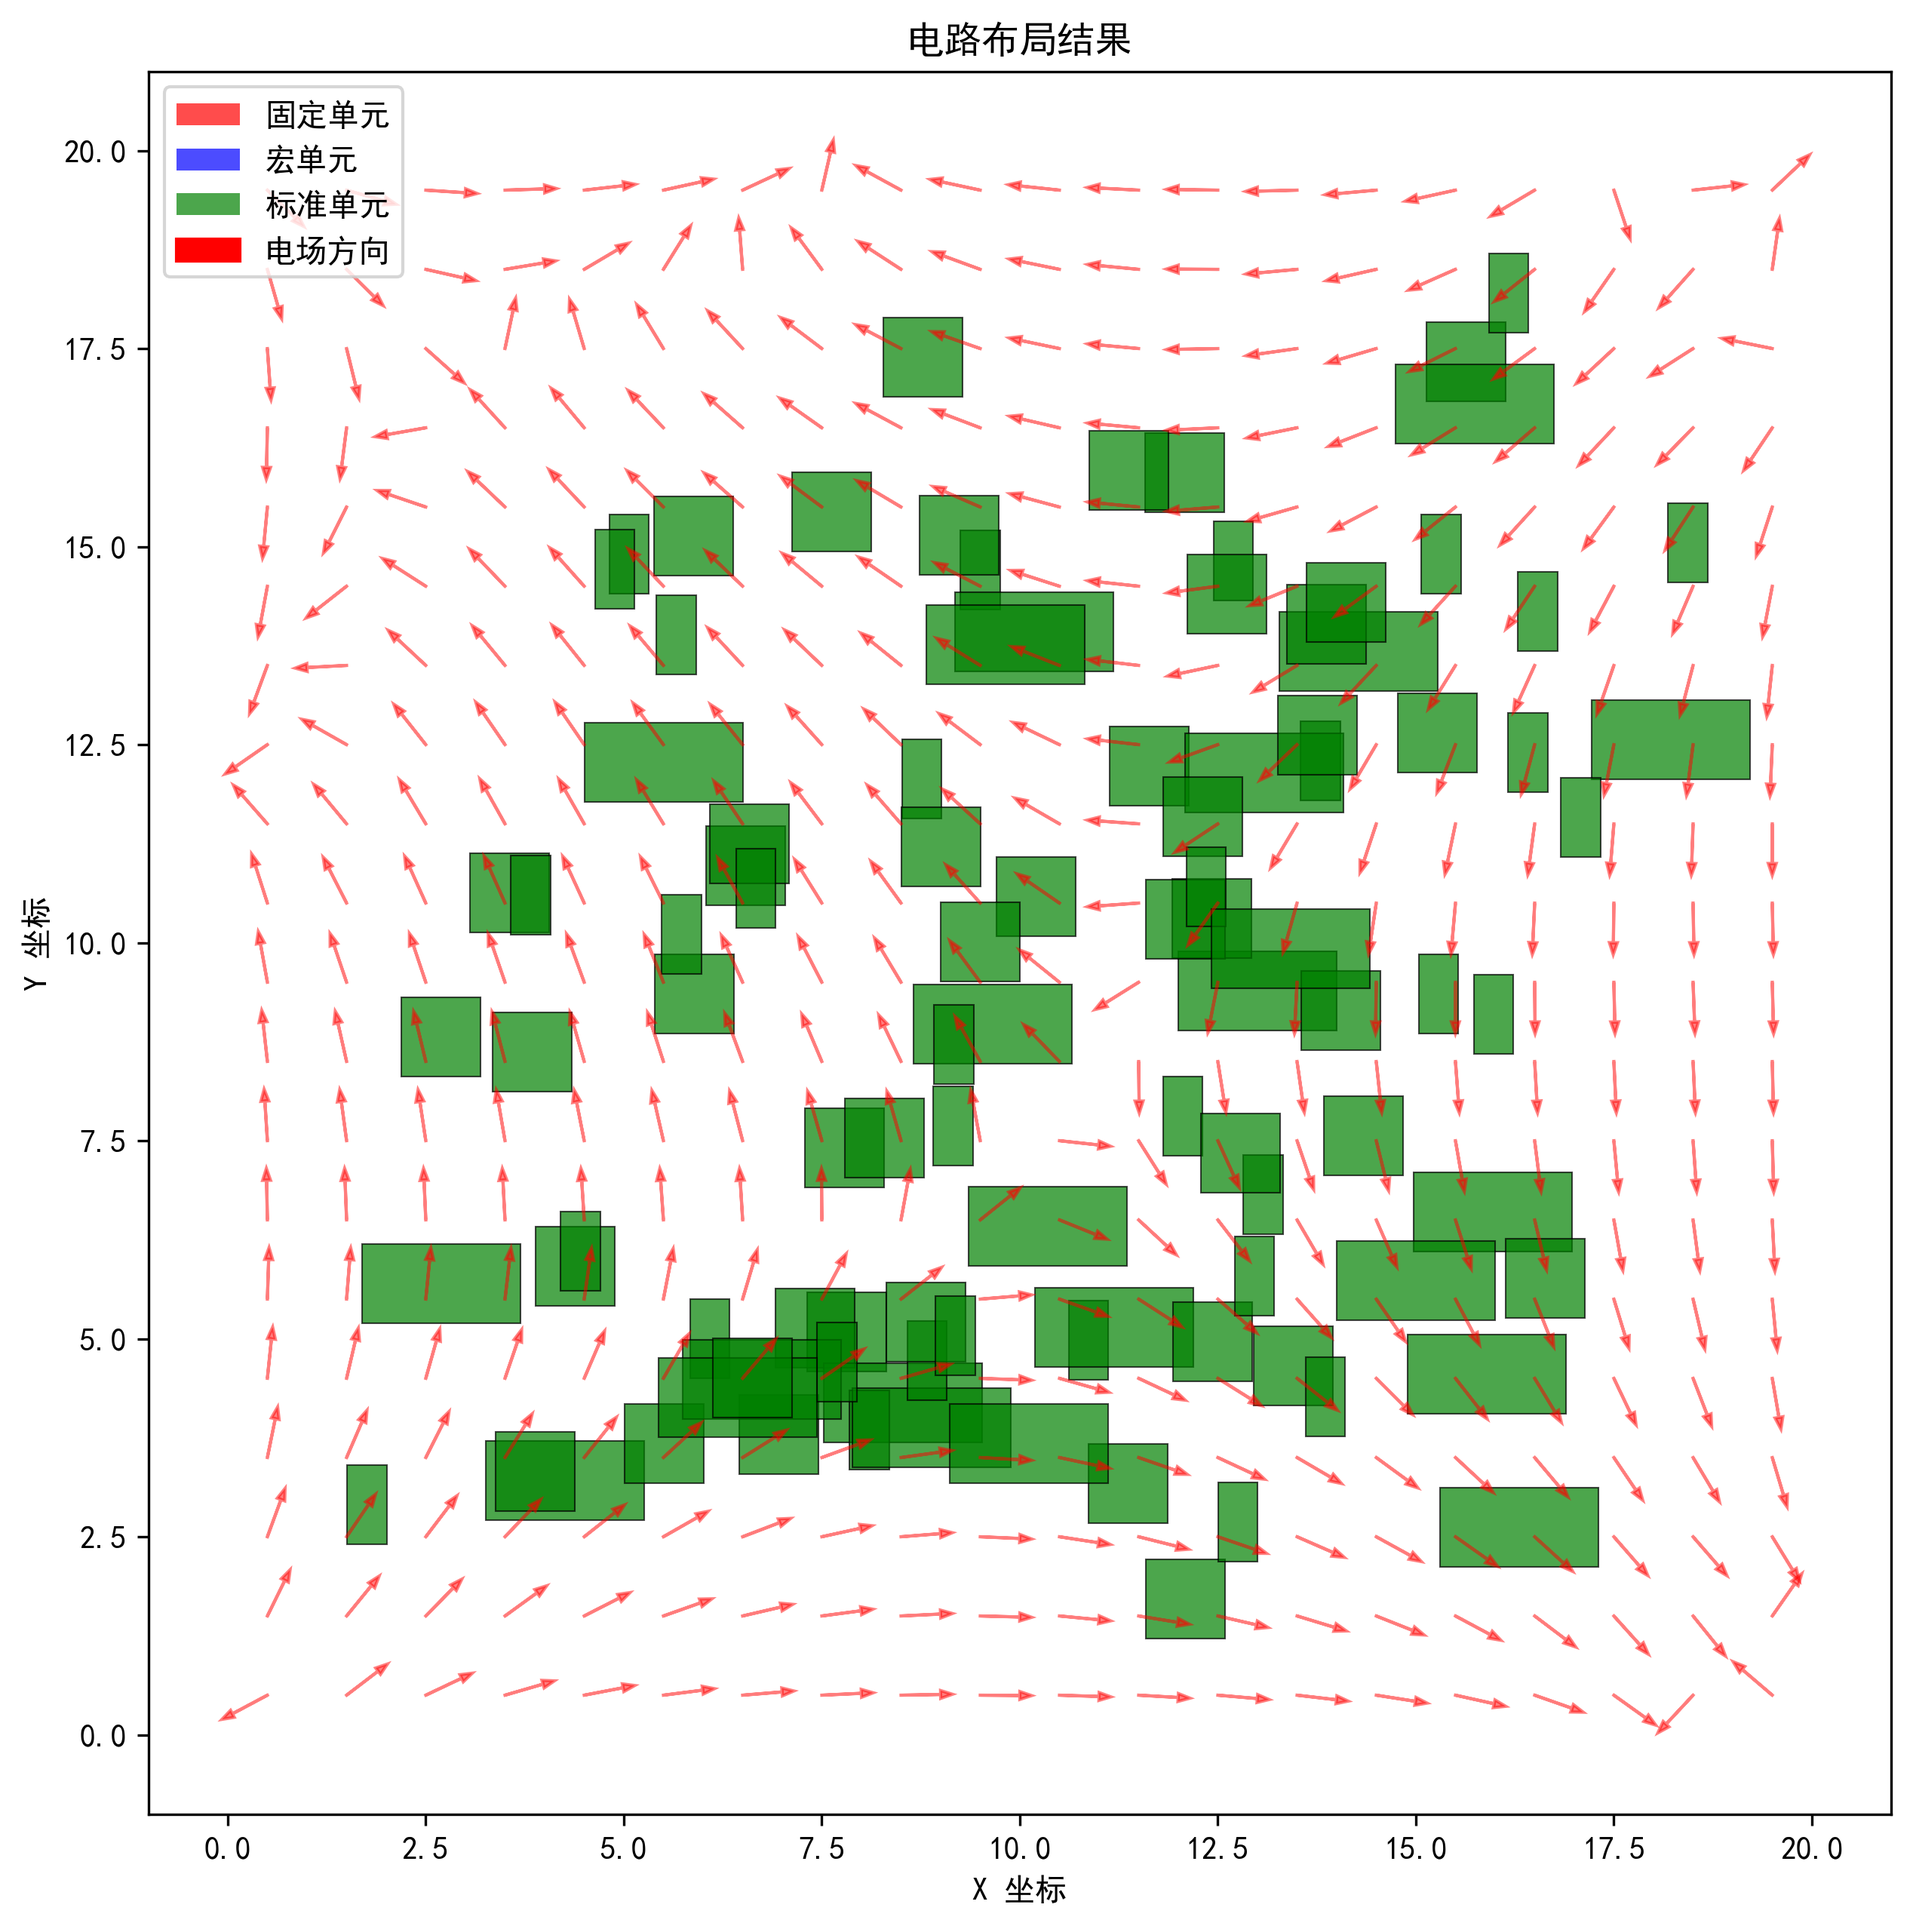
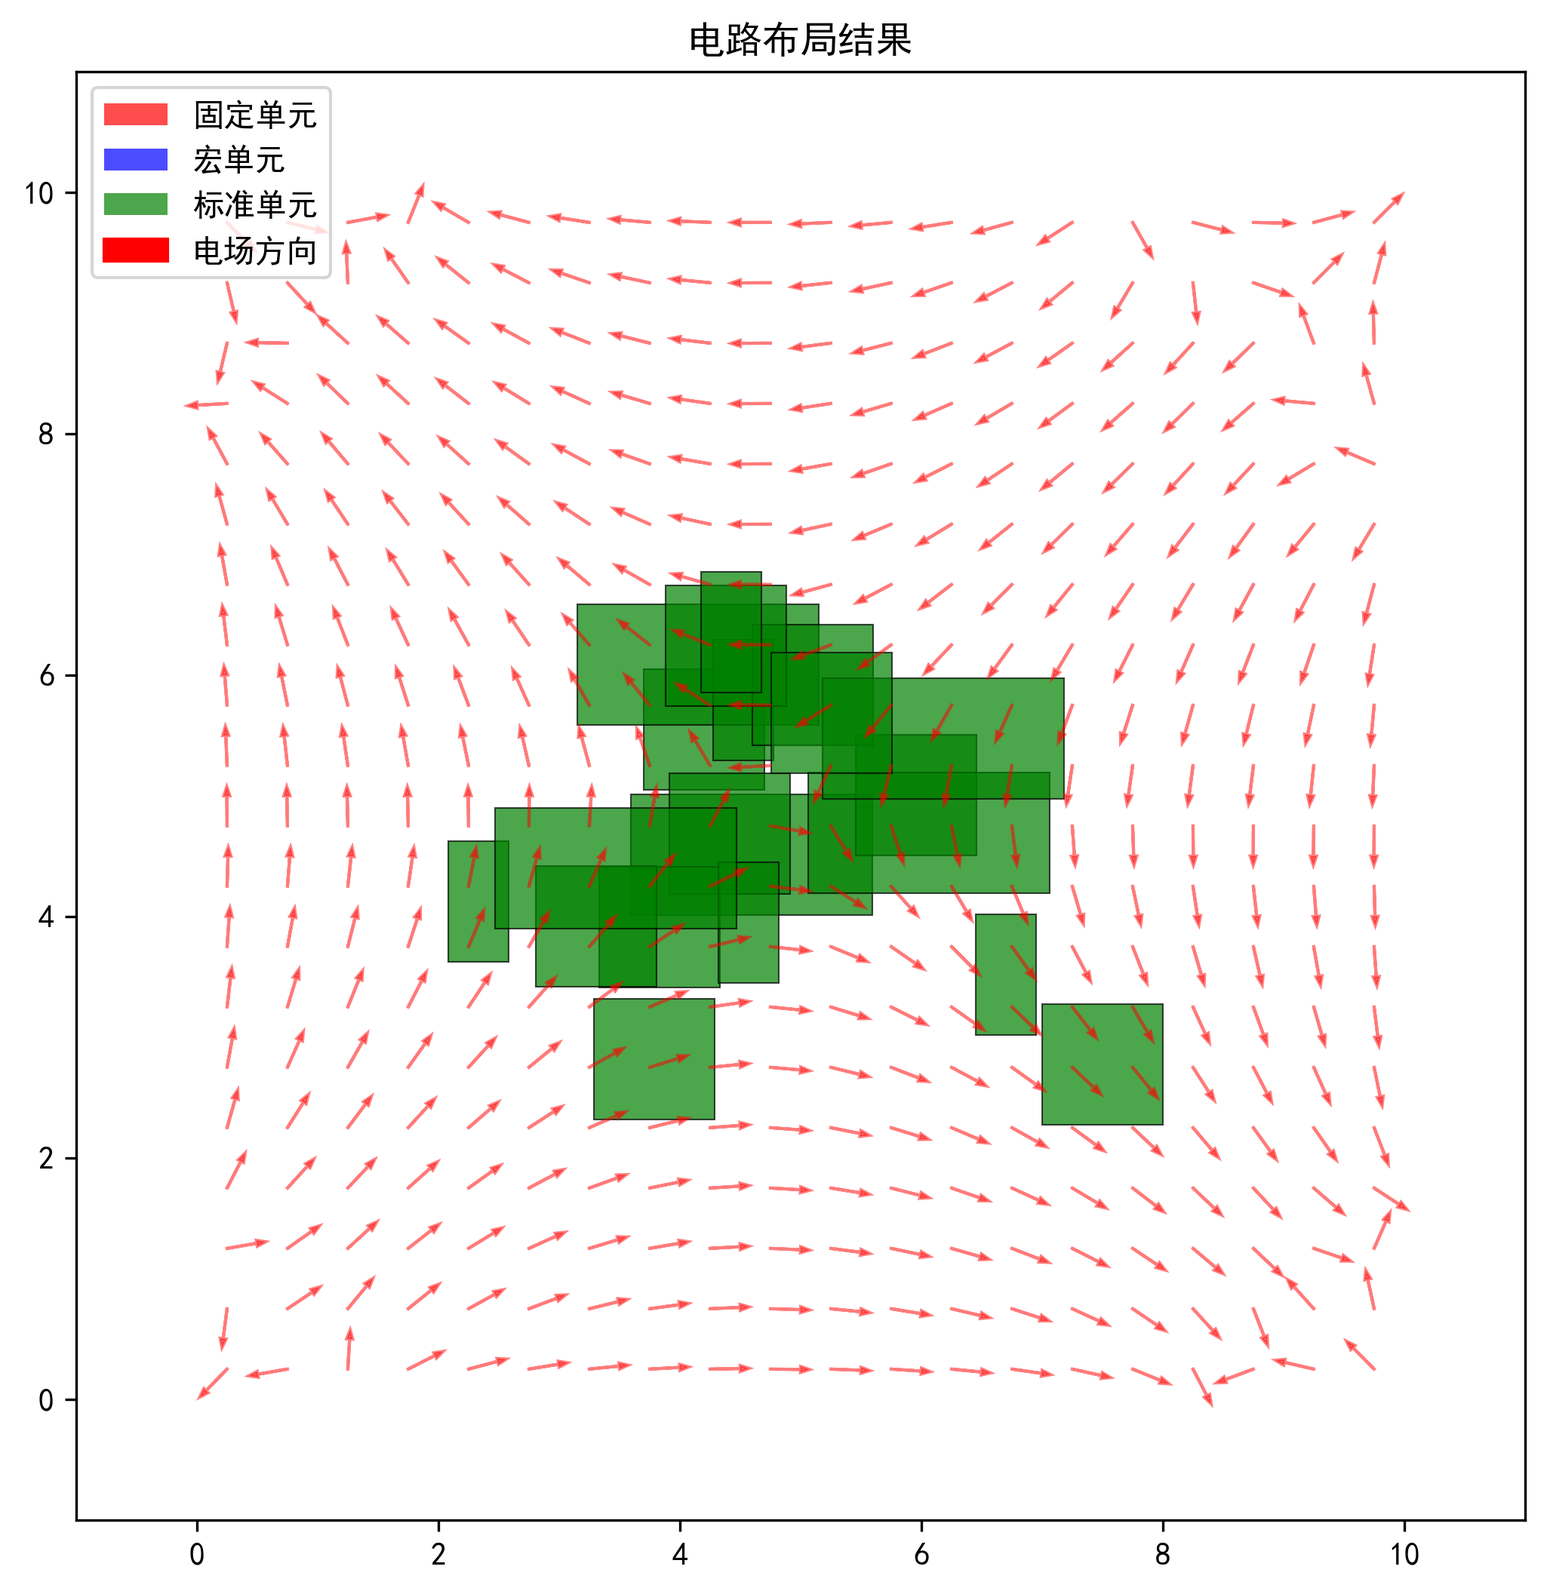
准备修改 布局的逻辑

diff --git a/src/visualizer.py b/src/visualizer.py
@@ -27,25 +27,41 @@ class PlacementVisualizer:
         self.cell_texts = {}
         self.colorbar = None  # 添加 colorbar 引用
         
-        # 创建图形
-        self.fig, self.ax = plt.subplots(figsize=(12, 10))
+        # 创建图形，调整大小和布局
+        self.fig = plt.figure(figsize=(10, 8))
+        self.ax = self.fig.add_axes([0.05, 0.05, 0.8, 0.9]) #colorbar预留空间
         plt.ion()  # 打开交互模式
+
         logger.info("可视化器初始化完成")
 
     def clear_plot(self):
-        """清除当前图形"""        # 完全重置图形
-        plt.close(self.fig)
-        self.fig, self.ax = plt.subplots(figsize=(12, 10))
-        plt.ion()  # 重新打开交互模式
+        """清除当前图形内容"""
+        self.ax.clear()
         
-        # 重置所有属性
+        # 清除 colorbar
+        if hasattr(self, 'colorbar') and self.colorbar is not None:
+            try:
+                self.colorbar.ax.remove()
+                self.colorbar = None
+            except Exception as e:
+                logger.warning(f"清除 colorbar 时出错: {e}")
+        
+        # 清除存储的图形对象
         self.cell_patches.clear()
         self.cell_texts.clear()
-        self.colorbar = None
+        
+        # 重置坐标轴设置和位置
+        self.ax.set_position([0.05, 0.05, 0.8, 0.9])  # 重新设置主图位置
+        # self.ax.set_xlabel('X 坐标')
+        # self.ax.set_ylabel('Y 坐标')
+        
+        # 重置图形布局
+        self.fig.canvas.draw()
 
-    def visualize_potential(self, density_map: DensityMap, output_file: str = None):
+    def visualize_potential(self, density_map: DensityMap = None, output_file = None,show =True):
         """可视化电势图"""
-        self.clear_plot()        # 清除之前的内容
+        # 清除之前的内容
+        self.clear_plot()
         
         # 获取电势数据
         potential = density_map.potential
@@ -56,30 +72,45 @@ class PlacementVisualizer:
         X, Y = np.meshgrid(x, y)
         
         # 绘制电势图
-        contour = self.ax.contourf(X, Y, potential.T, levels=20, cmap='viridis')
-        self.colorbar = plt.colorbar(contour, ax=self.ax, label='电势', pad=0.1)
+        # # contour = self.ax.contourf(X, Y, potential.T, levels=20, cmap='viridis')  
+        # self.colorbar = plt.colorbar(contour, ax=self.ax, label='电势', pad=0.05)
+
+        img = self.ax.imshow(
+        potential.T,                      # 注意转置，使图的方向正确
+        extent=[
+            density_map.origin_x,
+            density_map.origin_x + density_map.width,
+            density_map.origin_y,
+            density_map.origin_y + density_map.height
+        ],
+        origin='lower',                   # 原点在左下角
+        cmap='viridis',                   # 使用相同颜色映射
+        aspect='equal'                    # 坐标比例一致
+    )
+
+    # 添加颜色条
+        self.colorbar = plt.colorbar(img, ax=self.ax, label='电势', pad=0.05)        
+
         
         # 设置坐标轴
         self.ax.set_xlim(density_map.origin_x, density_map.origin_x + density_map.width)
         self.ax.set_ylim(density_map.origin_y, density_map.origin_y + density_map.height)
         self.ax.set_aspect('equal')
-        self.ax.set_xlabel('X 坐标')
-        self.ax.set_ylabel('Y 坐标')
-        self.ax.set_title('电势分布图')
-        
-        # 调整布局
-        self.fig.tight_layout()
+        # self.ax.set_xlabel('X 坐标')
+        # self.ax.set_ylabel('Y 坐标')
+        self.ax.set_title('电势分布图', pad=20)
         
         # 保存或显示图形
         if output_file:
             plt.savefig(output_file, dpi=300, bbox_inches='tight')
-            logger.info(f"电势图保存到: {output_file}")
+            # logger.info(f"电势图保存到: {output_file}")
         
         # 更新显示
-        self.fig.canvas.draw()
-        self.fig.canvas.flush_events()
+        if show:
+            self.fig.canvas.draw()
+            self.fig.canvas.flush_events()
 
-    def visualize_density(self, density_map: DensityMap, output_file: str = None):
+    def visualize_density(self, density_map: DensityMap=None, output_file = None,show=True):
         """可视化密度图"""
         self.clear_plot()
         density = density_map.density
@@ -90,35 +121,59 @@ class PlacementVisualizer:
         X, Y = np.meshgrid(x, y)
         
         # 绘制密度图
-        contour = self.ax.contourf(X, Y, density.T, levels=20, cmap='hot')
-        self.colorbar = plt.colorbar(contour, ax=self.ax, label='密度', pad=0.1)
+        # contour = self.ax.contourf(X, Y, density.T, levels=20, cmap='hot')
+        # self.colorbar = plt.colorbar(contour, ax=self.ax, label='密度', pad=0.05)
+    # 用 imshow 绘制热力图
+        img = self.ax.imshow(
+        density.T,                      # 转置矩阵，使方向正确
+        extent=[
+            density_map.origin_x,
+            density_map.origin_x + density_map.width,
+            density_map.origin_y,
+            density_map.origin_y + density_map.height
+        ],
+        origin='lower',                 # 原点设在左下角（更直观）
+        cmap='hot',                     # 热力图配色方案
+        aspect='equal'                  # 保持坐标比例一致
+    )
+    # 添加颜色条
+        self.colorbar = plt.colorbar(img, ax=self.ax, label='密度', pad=0.05)
         
         # 设置坐标轴
         self.ax.set_xlim(density_map.origin_x, density_map.origin_x + density_map.width)
         self.ax.set_ylim(density_map.origin_y, density_map.origin_y + density_map.height)
         self.ax.set_aspect('equal')
-        self.ax.set_xlabel('X 坐标')
-        self.ax.set_ylabel('Y 坐标')
-        self.ax.set_title('单元密度分布图')
-        
-        # 调整布局
-        self.fig.tight_layout()
+        # self.ax.set_xlabel('X 坐标')
+        # self.ax.set_ylabel('Y 坐标')
+        self.ax.set_title('单元密度分布图', pad=20)
         
         # 保存或显示图形
         if output_file:
             plt.savefig(output_file, dpi=300, bbox_inches='tight')
-            logger.info(f"密度图保存到: {output_file}")
+            # logger.info(f"密度图保存到: {output_file}")
         
         # 更新显示
-        self.fig.canvas.draw()
-        self.fig.canvas.flush_events()
+        if show:
+            self.fig.canvas.draw()
+            self.fig.canvas.flush_events()
 
-    def visualize_placement(self, density_map: DensityMap = None, show_field: bool = False, output_file: str = None):
+    def visualize_placement(self, density_map: DensityMap = None, show_field = False, show = True ,output_file= None):
         """可视化布局结果"""       
         # 清除之前的内容
         self.ax.clear()
         self.cell_patches.clear()
         self.cell_texts.clear()
+        
+        # 清除 colorbar
+        if hasattr(self, 'colorbar') and self.colorbar is not None:
+            try:
+                self.colorbar.ax.remove()
+                self.colorbar = None
+            except Exception as e:
+                logger.warning(f"清除 colorbar 时出错: {e}")
+        
+        # 重置坐标轴设置和位置
+        self.ax.set_position([0.1, 0.1, 0.85, 0.8])  # 布局图不需要为colorbar预留空间
         
         # 绘制芯片边界
         min_x, min_y, max_x, max_y = self.circuit.die_area
@@ -134,8 +189,8 @@ class PlacementVisualizer:
         self.ax.set_xlim(min_x - 1, max_x + 1)
         self.ax.set_ylim(min_y - 1, max_y + 1)
         self.ax.set_aspect('equal')
-        self.ax.set_xlabel('X 坐标')
-        self.ax.set_ylabel('Y 坐标')
+        # self.ax.set_xlabel('X 坐标')
+        # self.ax.set_ylabel('Y 坐标')
         
         # 根据文件名设置不同的标题
         title = '电路布局结果'
@@ -155,12 +210,13 @@ class PlacementVisualizer:
         # 保存或显示图形
         if output_file:
             plt.savefig(output_file, dpi=300, bbox_inches='tight')
-            logger.info(f"布局图保存到: {output_file}")
+            # logger.info(f"布局图保存到: {output_file}")
         
         # 更新显示
-        self.fig.canvas.draw()
-        self.fig.canvas.flush_events()
-        
+        if show:
+            self.fig.canvas.draw()
+            self.fig.canvas.flush_events()
+            
     def draw_cells(self):
         """绘制所有单元"""
         min_size = 8

diff --git a/src/placer.py b/src/placer.py
@@ -187,11 +187,11 @@ class ElectrostaticPlacer:
             current_density = self.density_map.get_max_density()
             
             # 每10次迭代更新一次可视化
-            if iteration % 10 == 0:
+            if iteration % 1 == 0:
                 self.visualizer.visualize_placement(self.density_map, show_field=True, \
                                                     output_file=fr"images/placement_{iteration}.png")
-                self.visualizer.visualize_density(self.density_map,output_file=fr"images/density_{iteration}.png")
-                self.visualizer.visualize_potential(self.density_map,output_file=fr"images/potential_{iteration}.png")
+                self.visualizer.visualize_density(self.density_map,output_file=fr"images/density_{iteration}.png",show=False)
+                self.visualizer.visualize_potential(self.density_map,output_file=fr"images/potential_{iteration}.png",show=False)
 
                 logger.info(f"迭代 {iteration}: HPWL={current_hpwl:.2f}, "
                            f"最大密度={current_density:.2f}, "

diff --git a/src/configs.py b/src/configs.py
@@ -16,7 +16,7 @@ def parse_arguments():
     parser.add_argument('--alpha', type=float, default=1.0, help='静电力学模型参数')
     parser.add_argument('--beta', type=float, default=0.5, help='线长权重参数')
     parser.add_argument('--gamma', type=float, default=0.5, help='密度权重参数')
-    parser.add_argument('--iterations', type=int, default=100, help='全局布局迭代次数')
+    parser.add_argument('--iterations', type=int, default=10, help='全局布局迭代次数')
     # parser.add_argument('--visualize', action='store_true', help='是否可视化布局结果')
     parser.add_argument('--visualize', type=bool, default=True, help='是否可视化布局结果')
     

diff --git a/delete.py b/delete.py
@@ -1,0 +1,16 @@
+import os
+
+folder_path = 'images'# 设置 images 文件夹路径
+
+# 图片文件扩展名列表
+image_extensions = ['.jpg', '.jpeg', '.png', '.gif', '.bmp', '.webp']
+
+# 遍历文件夹中的所有文件
+for filename in os.listdir(folder_path):
+    file_path = os.path.join(folder_path, filename)
+    # 检查是否为文件且扩展名为图片格式
+    if os.path.isfile(file_path) and os.path.splitext(filename)[1].lower() in image_extensions:
+        os.remove(file_path)
+        print(f"已删除: {file_path}")
+
+print("图片清理完成。")

diff --git a/src/circuit.py b/src/circuit.py
@@ -8,12 +8,12 @@ from typing import List, Dict, Tuple, Optional
 
 logger = logging.getLogger("ePlace.Circuit")
 
-STD_NUM = 100
+STD_NUM = 20
 MACRO_NUM = 0
 # NET_NUM = 0
 
-DIE_WIDTH = 20
-DIE_HEIGHT = 20
+DIE_WIDTH = 10
+DIE_HEIGHT = 10
 
 CELL_LIB = {"STD_CELLS":{
             "NAND2":  {"width": 1.0, "height": 1.0,   "pins":   {"A": (0.2, 0.5), "B": (0.5, 0.5), "Y": (0.8, 0.5) }},
